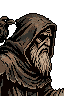
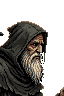
Bento novo com as animações; bifurcação volta às entradas do cenário (D-444)
Claude-Session: https://claude.ai/code/session_01DUWuezvzjAUhnjSiedgYuQ

diff --git a/docs/memory/decisions.md b/docs/memory/decisions.md
@@ -367,3 +367,4 @@ Formato: **D-número · data · quem** — decisão. *Onde está aplicada.*
 - **D-441 · 17/11/2026 · Alan e agente** — Conceito do acabamento aprovado (peças principais e prévias) e o **mapa da esquerda para a direita** (opção A). Geradas e montadas (cerca de 100 gerações no total do acabamento; saldo perto de 980): fundo de pedra do painel (luta, caminhada, Pouso), moldura de ferro dos blocos de ação, placa de ferro em 9 partes (observação, ficha do inimigo, mini-fichas, alforje aberto), cápsula de ferro das barras de vida, barra do chefe com pontas de garra, faixa de ferro no alto da luta, trave de ferro do mini-mapa com medalhões, e o **mapa do trecho** numa lápide de pedra com moldura de ferro: nós em medalhões, caminho de pedrinhas aceso em âmbar onde a companhia passou, lamparina no nó atual, arco do Portão (ícone novo). `tools/art/make_hud.py` prepara as peças (corta, limpa os cantos brancos da lápide, escurece a pedra). Numa luta contra chefe, a observação do canto desce para baixo da barra.
 - **D-442 · 17/11/2026 · Alan** — Acabamento aprovado, com ajustes: (1) **todos os botões simples** com o botão de ferro aprovado (`ui_button`, em 9 partes, no tema), na luta, na caminhada, no Pouso e na Vigília; (2) botões do Pouso e da Vigília **mais abaixo** e maiores; (3) textos que passavam por cima das traves de ferro: placa escura atrás do nome, posição, vida e desolação do santo na luta; nome do santo no Pouso abaixo da trave; "Rodada" e a dica abaixo da faixa do alto; nome do chefe numa placa no centro da barra, com a fase e as garras na mesma linha; (4) **um só retrato por santo**, o novo em pixel, **sempre no arco**, na luta, no Pouso e nas mini-fichas da caminhada (arco em meio tamanho); (5) na caminhada, **setas âmbar piscando** mostram para onde a companhia pode ir (frente, trás e, na bifurcação, uma sobre cada entrada) e somem em 3,5 s ou quando ela anda. 692 testes.
 - **D-443 · 17/11/2026 · Alan** — (1) **A Tentação do Círculo 2 é a tenda**: na bifurcação, a entrada que leva a uma Tentação mostra a tenda, não a passagem comum; outra Tentação, noutro círculo, terá a sua imagem conforme o contexto. (2) Pouso e Vigília: as **atividades ao lado do retrato**, centradas na altura dele; nome e estado do santo depois delas. (3) **Retrato de Jorge**: o de Alan (Meta AI) passado para a grade de 192 × 256 (um pixel do desenho por pixel, fundo cinza retirado), no lugar do gerado no PixelLab. (4) **Bento novo** gerado no PixelLab a partir da imagem de Alan (`docs/art/reference/benedict_alan_ref.jpg`): hábito preto em cinzas, capuz, livro, corvo no ombro, ponta do báculo em ouro velho, pele quente no prompt; 10 gerações; candidato em `docs/art/reference/benedict_px_candidate_v5.png`, aguardando aprovação para trocar (e refazer as animações).
+- **D-444 · 17/11/2026 · Alan** — (1) Alan esclareceu: as **bifurcações são naturais do cenário** (seguir em frente, porta, escada, caverna), de acordo com o fundo; a **tenda aparece dentro do trecho da Tentação**, não na entrada. A troca da D-443 (1) foi desfeita. (2) Alan quer alinhar **trecho a trecho** o cenário de cada tipo de nó (Tentação, relíquia, Encontro com alma, combate comum, elite, chefe), organizando os cenários já feitos, o que se repete e o que falta. (3) **Bento novo aprovado e trocado no jogo**: 7 animações no PixelLab (parado, andar, preparar, golpear, livro, defender, queda; 7 gerações), quadros limpos escolhidos para as poses; sem o filtro de pele antigo (o desenho novo já vem com a pele quente). Fontes em `art_source/characters/saints/saint_benedict/pixel/*_v03.png`.
